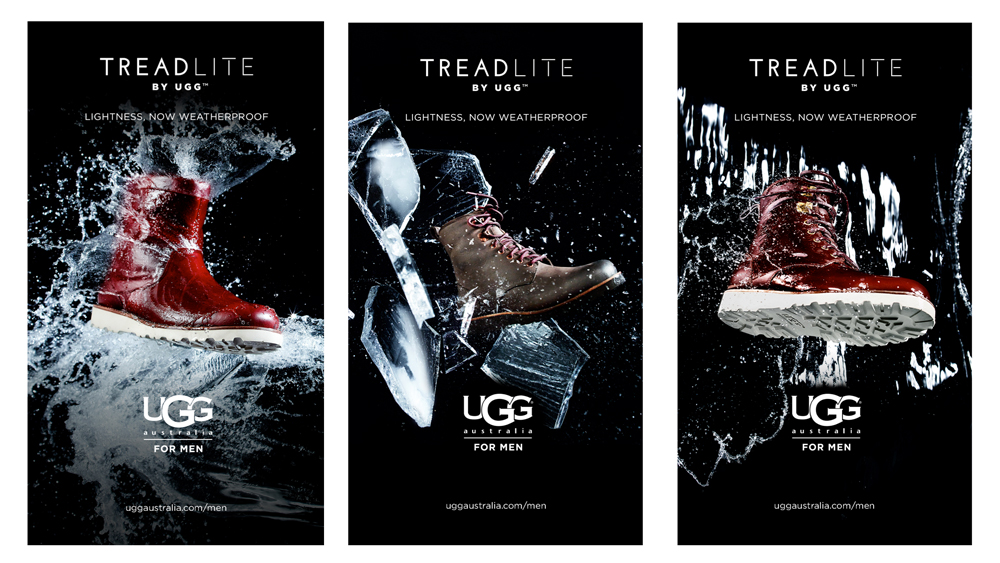
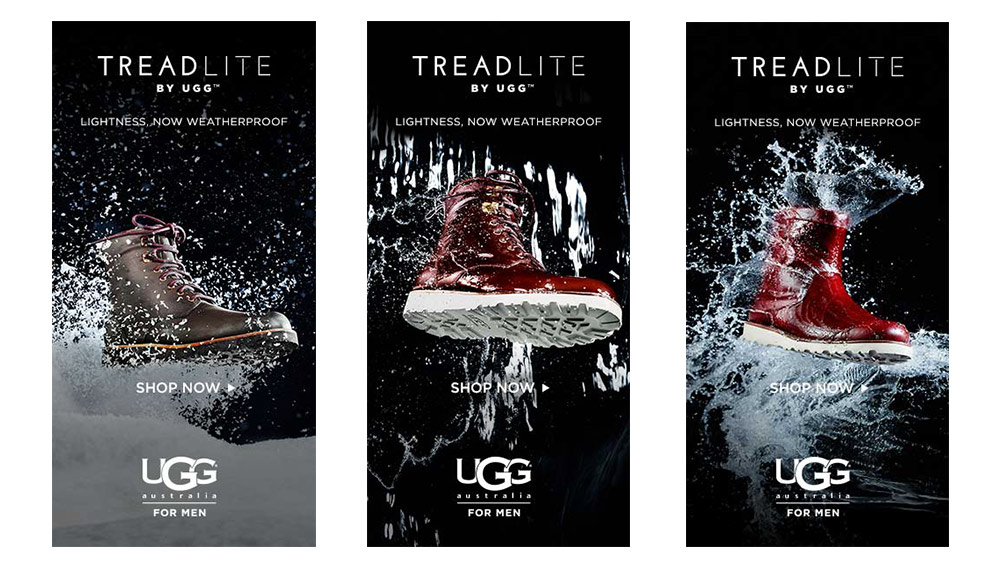
revision 4, minor changes to result copy and copy margins, swapped ice for snow digital img

diff --git a/UGG/treadlite/index.html b/UGG/treadlite/index.html
@@ -31,7 +31,7 @@
       <!--CASE STUDY TITLE-->  
 
       <div class="title-container">
-        <h1 class="main-title">How We Got Men to Wear a Women's Shoe</h1>
+      <!--  <h1 class="main-title">How We Got Men to Wear a Women's Shoe</h1> -->
         
       </div>
       
@@ -123,7 +123,7 @@
       </div>
     </div>
 <!-- THE WORK -->    
-    <div class="main parallax-window parallax-item" data-parallax="scroll" data-image-src="./img/7649UGG_Treadlite_Print_9.jpg" data-natural-width="100%">
+    <div class="main parallax-window parallax-item" data-parallax="scroll" data-image-src="./img/7392UGG_Treadlite_IPad.jpg" data-natural-width="100%">
       <div class="container-fluid">
         <h1 class="title-desc-inner">THE WORK</h1>
       </div>
@@ -181,7 +181,7 @@
         </div>
         <div class="row">
           <div class="col-md-8 col-md-offset-2 inner-txt">
-            <img src="./img/7649UGG_Treadlite_Print_9.jpg" class="feat-img img-responsive center-block">
+            <img src="./img/7392UGG_Treadlite_IPad.jpg" class="feat-img img-responsive center-block">
           </div>
           <div class="col-md-6 inner-txt">
             <img src="./img/treadlite_fb.jpg" class="feat-img img-responsive center-block">

diff --git a/UGG/treadlite/styles.css b/UGG/treadlite/styles.css
@@ -177,6 +177,7 @@ a {
 
 .to-center{
   text-align: center;
+      margin: 20px 0px;
 }
 .to-left{
   text-align: left;
@@ -281,7 +282,7 @@ a {
 }
 
 .video-block{
-  margin-bottom: 30px;
+  margin-bottom: 20px;
 }
 
 .feat-img{
